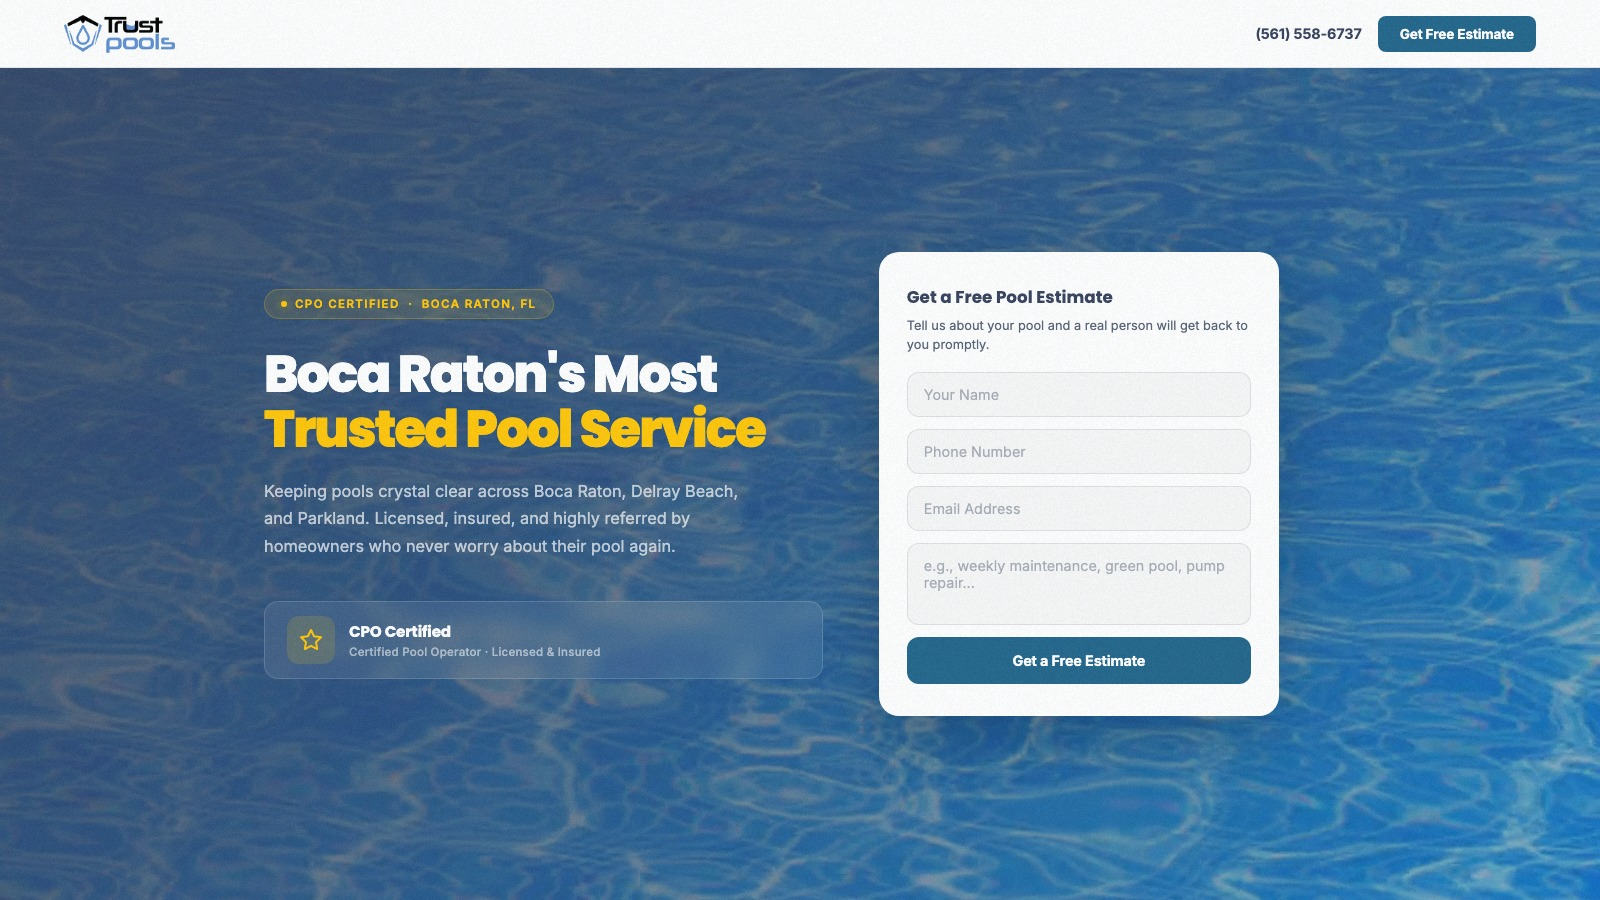
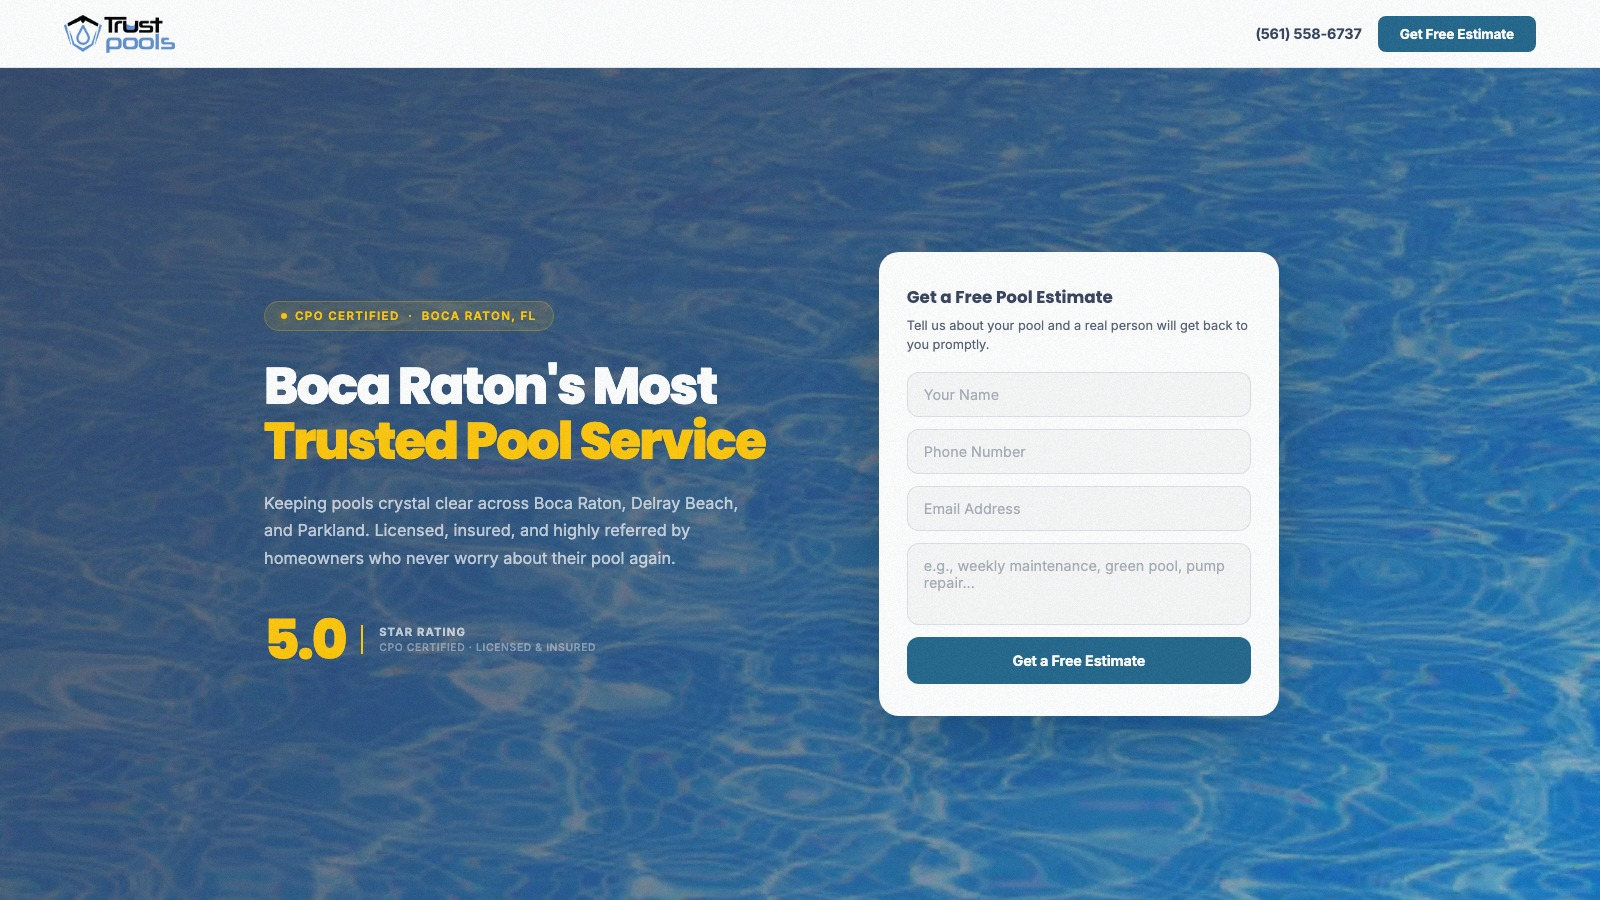
Add animated 5.0 rating counter to Trust Pools hero
Replaces the static CPO badge with a gold animated 5.0 stat that
counts up on page load, matching Russell's 23+ counter pattern.
Preview image regenerated.

diff --git a/p/trust-pools-boca-raton/index.html b/p/trust-pools-boca-raton/index.html
@@ -69,13 +69,12 @@ h1{font-family:'Poppins',sans-serif;font-size:clamp(2.2rem,3.8vw,3.2rem);font-we
 h1 em{font-style:normal;color:var(--gold)}
 .hero-sub{color:rgba(255,255,255,.7);font-size:1.02rem;line-height:1.7;max-width:480px;margin-bottom:32px}
 
-/* HERO CPO BADGE */
-.hero-badge{display:inline-flex;align-items:center;gap:14px;background:rgba(255,255,255,.08);border:1px solid rgba(255,255,255,.15);border-radius:14px;padding:14px 22px;margin-top:8px;backdrop-filter:blur(8px);-webkit-backdrop-filter:blur(8px);opacity:0;animation:fadeUp .7s cubic-bezier(.22,1,.36,1) .75s forwards}
-.hero-badge-icon{width:48px;height:48px;background:rgba(255,199,11,.15);border-radius:12px;display:flex;align-items:center;justify-content:center;flex-shrink:0}
-.hero-badge-icon svg{color:var(--gold)}
-.hero-badge-text{display:flex;flex-direction:column;gap:2px}
-.hero-badge-title{font-family:'Poppins',sans-serif;font-weight:700;font-size:.95rem;color:var(--white);letter-spacing:-.01em}
-.hero-badge-sub{font-size:.72rem;font-weight:500;color:rgba(255,255,255,.55);letter-spacing:.02em}
+/* HERO STAT */
+.hero-stat{display:flex;align-items:center;gap:16px;margin-top:8px;opacity:0;animation:fadeUp .7s cubic-bezier(.22,1,.36,1) .75s forwards}
+.hero-stat-num{font-family:'Poppins',sans-serif;font-size:clamp(2.6rem,4vw,3.4rem);font-weight:800;line-height:1;color:var(--gold);letter-spacing:-.04em}
+.hero-stat-right{display:flex;flex-direction:column;gap:2px;padding-left:16px;border-left:2px solid var(--gold)}
+.hero-stat-label{font-size:.7rem;font-weight:700;letter-spacing:.1em;text-transform:uppercase;color:rgba(255,255,255,.7)}
+.hero-stat-sub{font-size:.65rem;font-weight:500;letter-spacing:.06em;text-transform:uppercase;color:rgba(255,255,255,.4)}
 
 /* FORM CARD */
 .hero-form{max-width:400px;background:var(--white);border-radius:20px;padding:32px 28px;box-shadow:0 24px 64px rgba(0,0,0,.2)}
@@ -213,7 +212,7 @@ footer{background:var(--navy);padding:56px 64px;display:grid;grid-template-colum
 .hero .eyebrow,
 .hero h1,
 .hero .hero-sub,
-.hero .hero-badge,
+.hero .hero-stat,
 .hero .hero-form{opacity:0;animation:fadeUp .7s cubic-bezier(.22,1,.36,1) forwards}
 .hero .eyebrow{animation-delay:.15s}
 .hero h1{animation-delay:.35s}
@@ -227,7 +226,7 @@ footer{background:var(--navy);padding:56px 64px;display:grid;grid-template-colum
 .service-card.visible{opacity:1;transform:translateY(0)}
 
 @media(prefers-reduced-motion:reduce){
-  .hero .eyebrow,.hero h1,.hero .hero-sub,.hero .hero-badge,.hero .hero-form{opacity:1;animation:none}
+  .hero .eyebrow,.hero h1,.hero .hero-sub,.hero .hero-stat,.hero .hero-form{opacity:1;animation:none}
   .reveal{opacity:1;transform:none;transition:none}
   .service-card{opacity:1;transform:none}
   #loader{display:none}
@@ -271,13 +270,11 @@ footer{background:var(--navy);padding:56px 64px;display:grid;grid-template-colum
       <div class="eyebrow">CPO Certified &nbsp;·&nbsp; Boca Raton, FL</div>
       <h1>Boca Raton's Most <em>Trusted Pool Service</em></h1>
       <p class="hero-sub">Keeping pools crystal clear across Boca Raton, Delray Beach, and Parkland. Licensed, insured, and highly referred by homeowners who never worry about their pool again.</p>
-      <div class="hero-badge" aria-label="CPO Certified Pool Operator">
-        <div class="hero-badge-icon">
-          <svg width="24" height="24" fill="none" viewBox="0 0 24 24" stroke="currentColor" stroke-width="2" stroke-linecap="round" stroke-linejoin="round"><path d="M12 2l3.09 6.26L22 9.27l-5 4.87 1.18 6.88L12 17.77l-6.18 3.25L7 14.14 2 9.27l6.91-1.01L12 2z"/></svg>
-        </div>
-        <div class="hero-badge-text">
-          <div class="hero-badge-title">CPO Certified</div>
-          <div class="hero-badge-sub">Certified Pool Operator &middot; Licensed &amp; Insured</div>
+      <div class="hero-stat" aria-label="5.0 star rating">
+        <div class="hero-stat-num" id="heroRating">0</div>
+        <div class="hero-stat-right">
+          <div class="hero-stat-label">Star Rating</div>
+          <div class="hero-stat-sub">CPO Certified &middot; Licensed &amp; Insured</div>
         </div>
       </div>
     </div>
@@ -520,12 +517,32 @@ footer{background:var(--navy);padding:56px 64px;display:grid;grid-template-colum
       setTimeout(function() {
         loader.classList.add('done');
         document.getElementById('page').style.visibility = 'visible';
+        startRatingCounter();
       }, 1200);
     } else {
       show(i);
     }
   }, 1400);
 })();
+
+
+// -- HERO "5.0" COUNTER --
+function startRatingCounter() {
+  var el = document.getElementById('heroRating');
+  if (!el) return;
+  var target = 50; // 5.0 x 10
+  var dur = 1600;
+  var t0 = null;
+  function ease(t) { return 1 - Math.pow(2, -10 * t); }
+  function tick(ts) {
+    if (!t0) t0 = ts;
+    var p = Math.min((ts - t0) / dur, 1);
+    var val = (target * ease(p) / 10).toFixed(1);
+    el.textContent = val;
+    if (p < 1) requestAnimationFrame(tick); else el.textContent = '5.0';
+  }
+  setTimeout(function() { requestAnimationFrame(tick); }, 400);
+}
 
 
 // -- GRAIN CANVAS (cool blue tint) --
